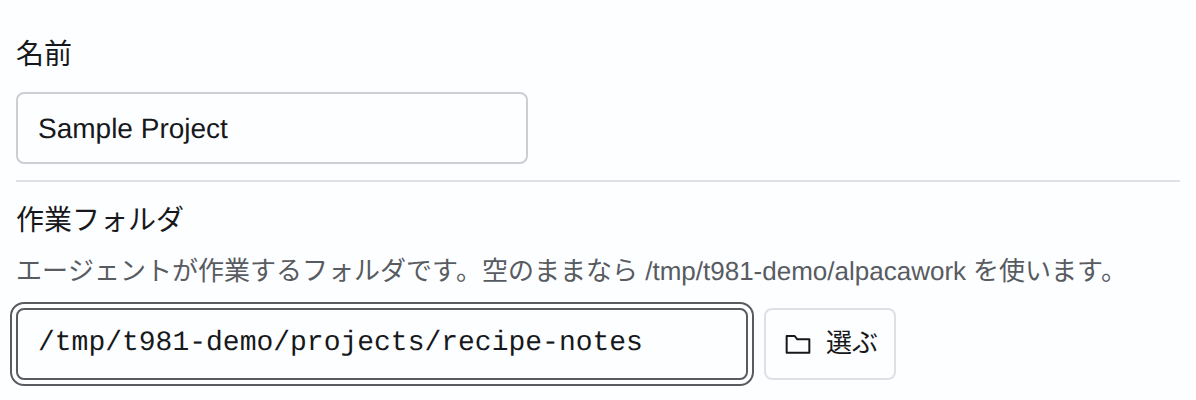
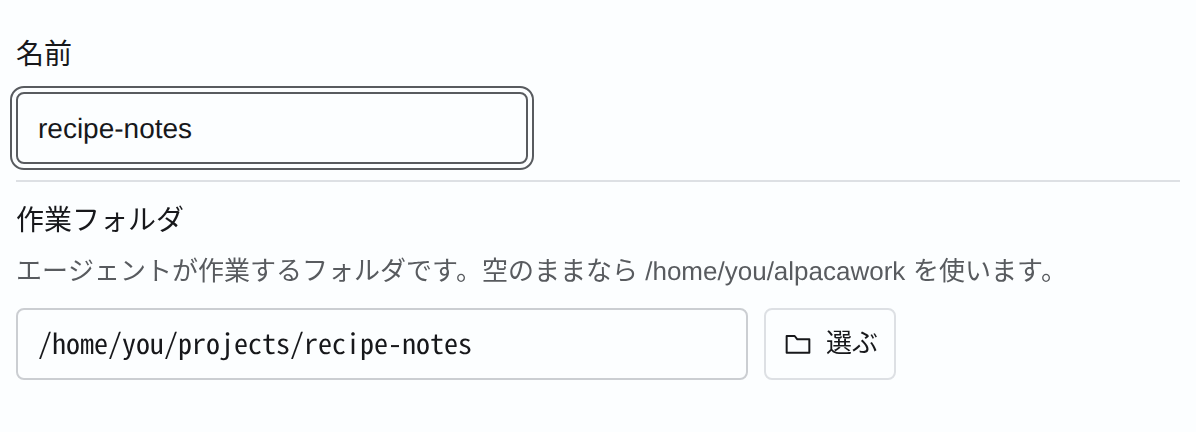
Retake the setup picture with a neutral path, and drop the ideas page's diagrams

Changed region(s): [[0.0, 0.45, 0.99, 0.99], [0.0, 0.09, 0.464, 0.42]]

diff --git a/docs/ja/guide.md b/docs/ja/guide.md
@@ -48,7 +48,7 @@
 
 報告を読み、添えられたファイルや差分を開いて確かめます。
 
-- よければ、画面の下の「完了」を押します。押すまでタスクは終わりません。
+- よければ、画面の下の「完了」（チェックの印）を押します。押すまでタスクは終わりません。
 - 直してほしいときは、タスクを開いたまま、直す点を入力欄に書いて送ります。
 
 <img src="../images/action-bar-ja.png" alt="タスクを開いたときに下に並ぶボタン。「自動スワイプ」「状態を変更」「完了」" width="338">
